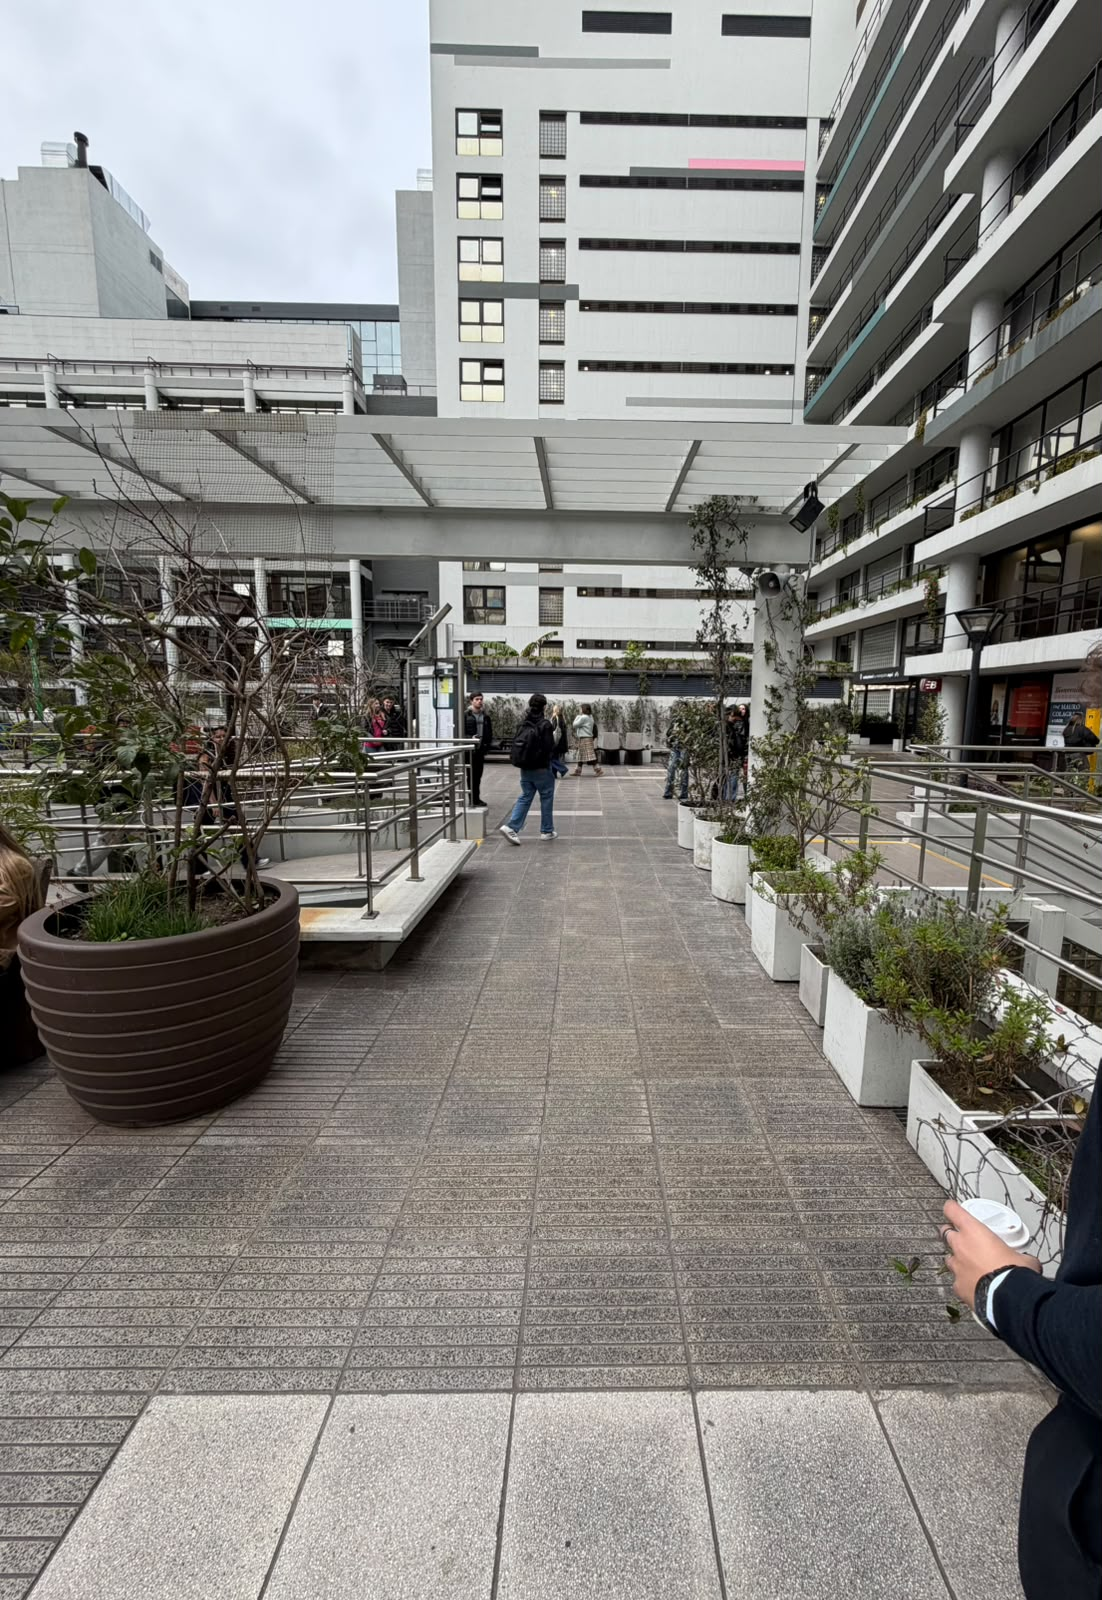
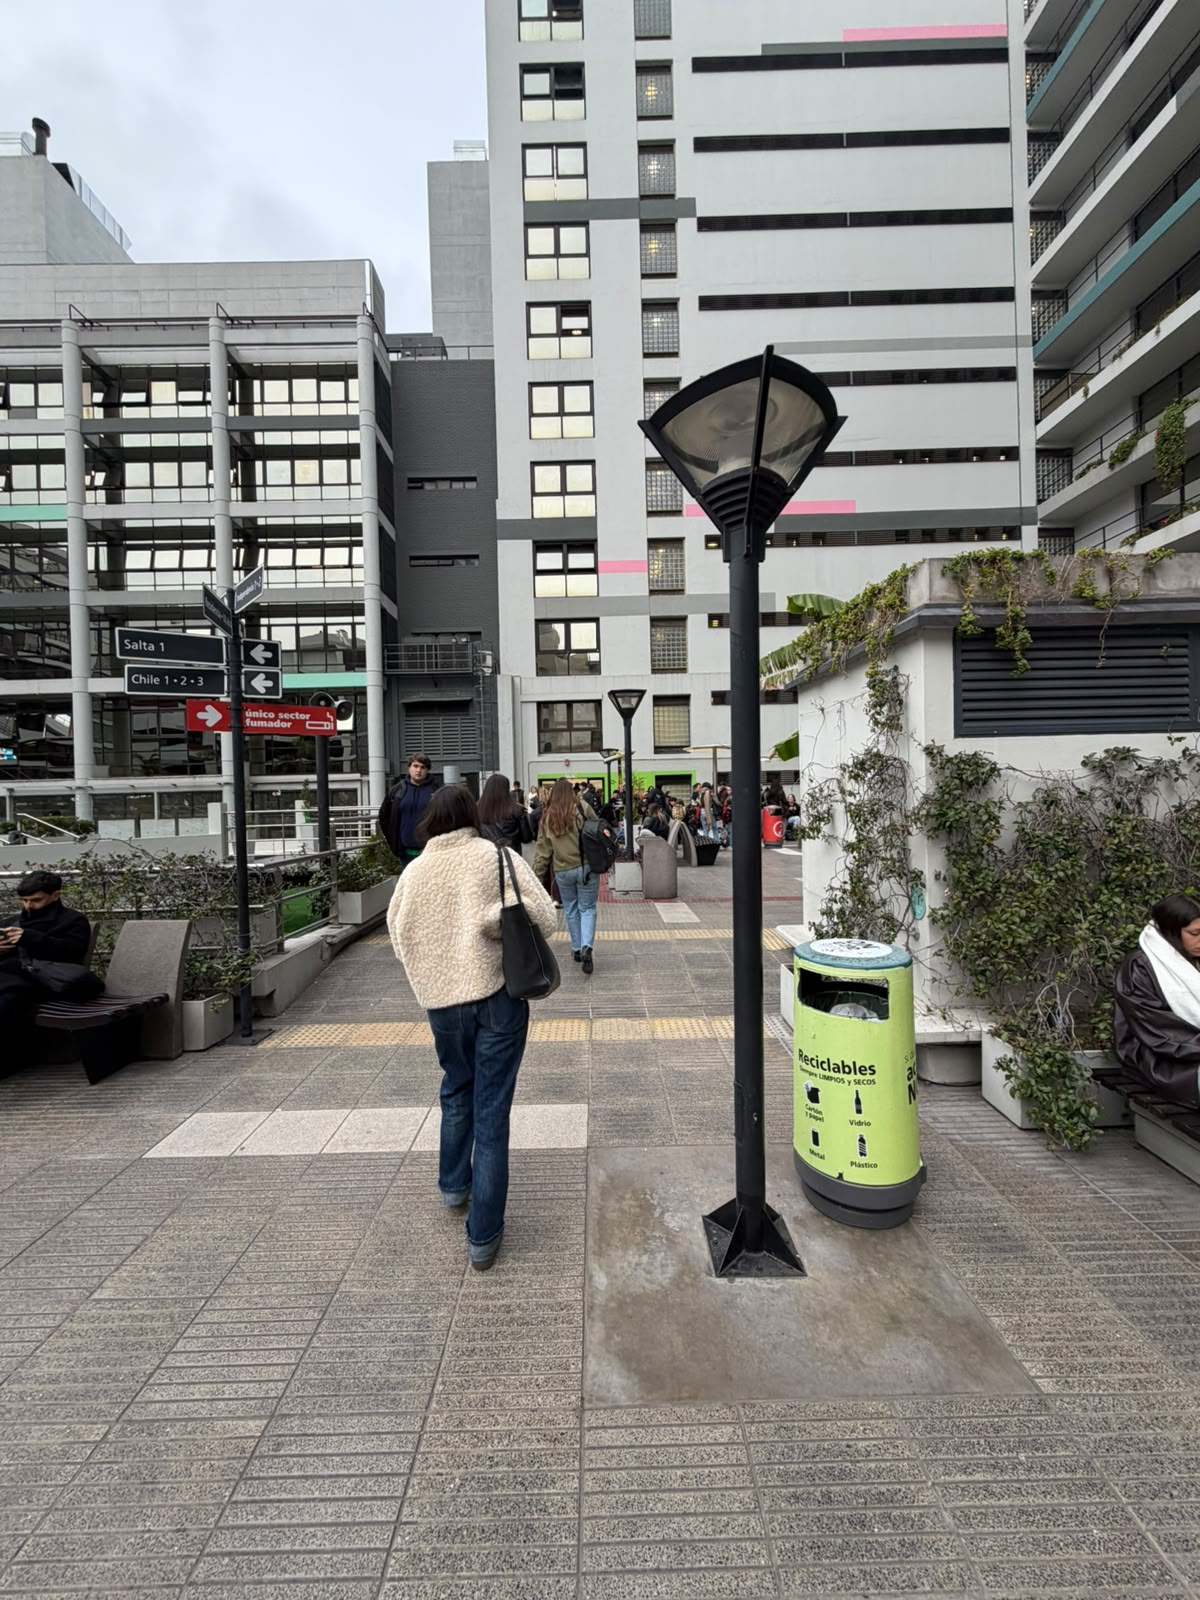
Sacar fotos 2 y 4 del mapa, renumerar los puntos restantes de 1 a 4

diff --git a/index.html b/index.html
@@ -731,11 +731,9 @@
   // el path y las etiquetas del mapa.
   const PUNTOS_FOTO = [
     { n: 1, x: 327, y: 190, src: "assets/punto-1.jpg", alt: "Salida de UADE Labs" },
-    { n: 2, x: 345, y: 244, src: "assets/punto-2.jpg", alt: "Cruce del patio central" },
-    { n: 3, x: 345, y: 311, src: "assets/punto-3.jpg", alt: "Patio central" },
-    { n: 4, x: 345, y: 371, src: "assets/punto-4.jpg", alt: "Patio central, acercándose a Lima 3" },
-    { n: 5, x: 345, y: 421, src: "assets/punto-5.jpg", alt: "Camino hacia la entrada de Lima 3" },
-    { n: 6, x: 336, y: 478, src: "assets/punto-6.jpg", alt: "Entrada de Lima 3" },
+    { n: 2, x: 345, y: 311, src: "assets/punto-2.jpg", alt: "Patio central" },
+    { n: 3, x: 345, y: 421, src: "assets/punto-3.jpg", alt: "Camino hacia la entrada de Lima 3" },
+    { n: 4, x: 336, y: 478, src: "assets/punto-4.jpg", alt: "Entrada de Lima 3" },
   ];
 
   function abrirFoto(src, alt) {
